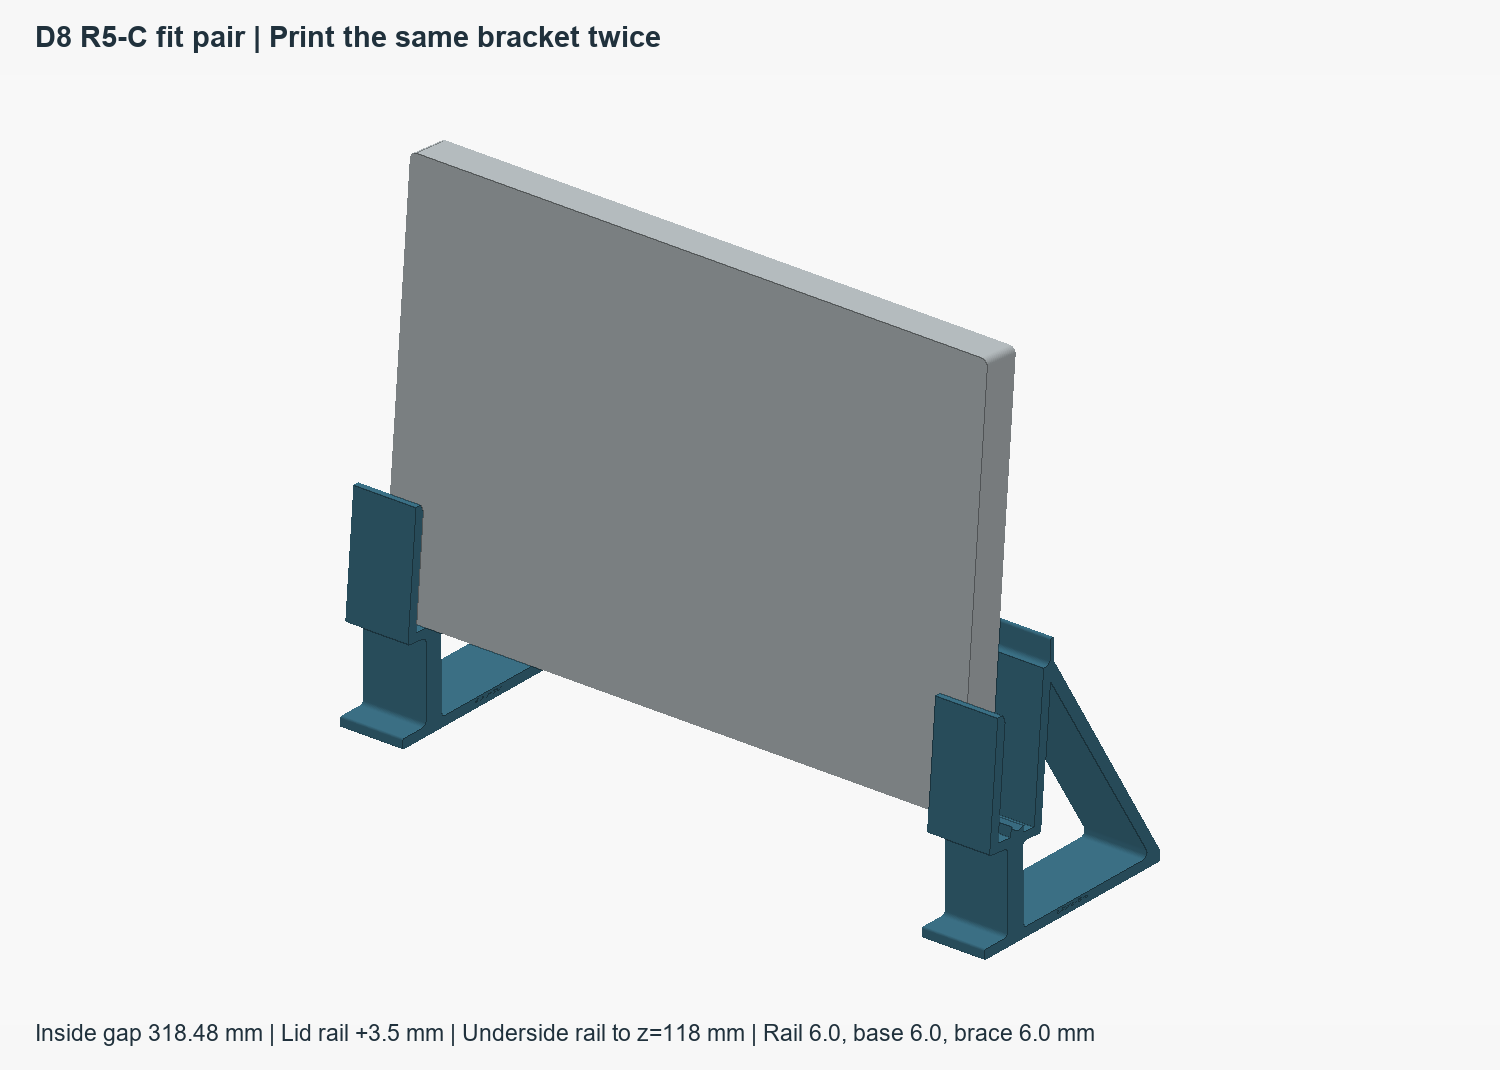
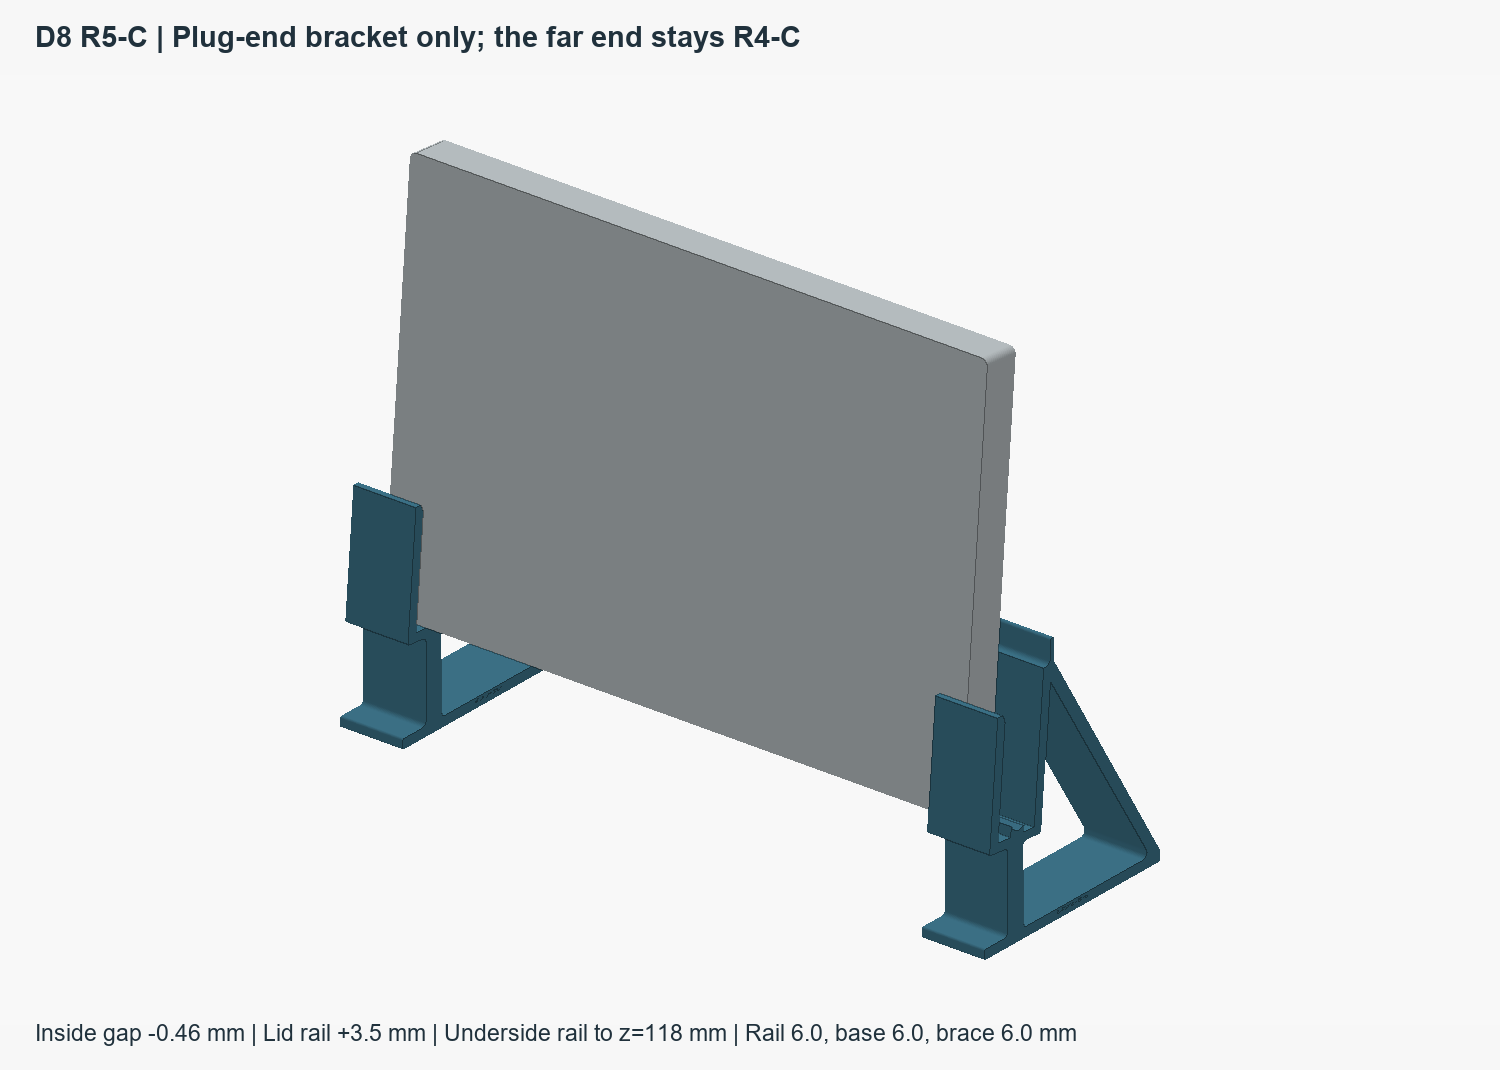
R5 bracket: docking-sweep receipt and plug-end-only decision
Claude-Session: https://claude.ai/code/session_0176uh1b37krRMqbsvLv9EDc

Changed region(s): [[0.092, 0.9561, 0.736, 0.9869], [0.092, 0.0308, 0.5213, 0.0617]]

diff --git a/desk-dock/D8/quick-fit/R5/build_quick_fit.py b/desk-dock/D8/quick-fit/R5/build_quick_fit.py
@@ -302,10 +302,26 @@ for deg in (2, 4, 6, 8, 10):
 assert tip_hits[2] < .001 or True  # small angles may graze the lead-in; recorded, not asserted
 assert max(tip_hits.values()) > 1.0, ('underside rail never catches the tipping laptop', tip_hits)
 first_catch = min(d for d,v in tip_hits.items() if v > .001)
-# Feet and intake window stay outside both bracket ends.
+# The wall belongs on the plug-end bracket (x=0 side) only. The laptop docks
+# along -X from an 18-mm undocked offset, so the rear rubber-foot strip
+# (x 30..323 docked) sweeps x 30..341: it never reaches the plug-end bracket
+# (x < 18) but passes through the far-end bracket's x range. The far end stays
+# R4-C without the wall. Receipt: sweep the docking travel and record the
+# closest approach of every foot keepout to this bracket at each end.
+undock = P['undocked_x_offset_mm']
 intake = C['intake_window_case_relative_bounds_mm']
-assert xstarts[0]+B < intake[0][0] and xstarts[1] > intake[1][0], 'underside rail would cover the intake window'
-assert all(xstarts[0]+B < f['untilted_case_relative_bounds_mm'][0][0] and xstarts[1] > f['untilted_case_relative_bounds_mm'][1][0] for f in C['rubber_feet']), 'underside rail would meet a rubber foot'
+sweep = {}
+for end, x0 in (('plug_end', xstarts[0]), ('far_end', xstarts[1])):
+    worst = None
+    for dx in np.arange(0, undock+1e-9, 2.0):
+        for f in C['rubber_feet']:
+            a, b_ = f['untilted_case_relative_bounds_mm']
+            fx0, fx1 = a[0]+dx, b_[0]+dx
+            gap = float(max(x0-fx1, fx0-(x0+B)))  # positive = clear in X
+            worst = gap if worst is None else min(worst, gap)
+    sweep[end] = {'min_x_clearance_to_any_foot_mm': worst, 'foot_strip_overlaps_bracket_x_range_during_docking': bool(worst < 0)}
+assert not sweep['plug_end']['foot_strip_overlaps_bracket_x_range_during_docking'], sweep
+assert xstarts[0]+B < intake[0][0], 'plug-end rail would cover the intake window'
 
 printed = s.rotate((0,0,0),(0,1,0),-90)
 b = printed.BoundingBox()
@@ -327,7 +343,7 @@ report = dict(passed=True,revision=f'R5-{VARIANT} fit pair',quantity=2,identical
     lip_nominal_clearance_mm=(.25+F['lip_outward_shift_mm']) if VARIANT!='A' else .25,
     fence_inner_to_rail_inner_mm=T+.25+(F['lip_outward_shift_mm'] if VARIANT!='A' else 0)+S,
     base_thickness_mm=BT,brace_width_mm=BW,edge_treatment=edge_report,
-    underside_rail=edge_report['fence'],tip_catch_first_deg=first_catch,tip_overlap_by_deg_mm3=tip_hits,
+    underside_rail=edge_report['fence'],tip_catch_first_deg=first_catch,tip_overlap_by_deg_mm3=tip_hits,docking_sweep=sweep,wall_placement='plug-end bracket only; pair = one R5 (plug end) + one R4 (far end)',
     seat_datum_unchanged=True,bracket_width_mm=B,
     inside_clear_gap_mm=gap,center_spacing_mm=xstarts[1]-xstarts[0],
     outside_width_mm=hi[0]-lo[0],footprint_depth_mm=y1-y0,
@@ -347,7 +363,7 @@ report = dict(passed=True,revision=f'R5-{VARIANT} fit pair',quantity=2,identical
 
 im,_ = render([(q,(62,117,139)) for q in placed]+[(laptop,(188,195,198))],(1500,950),(.8,-1,.65),pad=65)
 canvas = Image.new('RGB',(1500,1070),'#f7f7f7'); canvas.paste(im,(0,75)); draw=ImageDraw.Draw(canvas)
-draw.text((35,20),f'D8 R5-{VARIANT} fit pair | Print the same bracket twice',font=font(29,True),fill='#20313c')
+draw.text((35,20),f'D8 R5-{VARIANT} | Plug-end bracket only; the far end stays R4-{VARIANT}',font=font(29,True),fill='#20313c')
 draw.text((35,1020),f'Inside gap {gap:.2f} mm | Lid rail +{S} mm | Underside rail to z={F["fence_top_z_mm"]:.0f} mm | Rail {RT}, base {BT}, brace {BW} mm',font=font(23),fill='#20313c')
 canvas.save(R/f'D8-R5-{VARIANT}{TAG}-quick-fit.png')
 im,_=render([(s,(62,117,139))],(1100,900),(1,-.15,.13),pad=60)

diff --git a/desk-dock/D8/quick-fit/R5/README.md b/desk-dock/D8/quick-fit/R5/README.md
@@ -3,12 +3,15 @@
 **18 September 2026.** The printed R4-C pair carried the laptop, but a nudge
 tipped it away from the lid rail: the 15-mm short fence cannot hold a 240-mm
 lever pivoting on the seat, and the 5-degree lean gives only about 10 mm of
-centre-of-gravity margin. R5 raises that fence, at the bracket ends only, into
-a 6-mm underside rail 64 mm above the seat datum (unleaned z 47..118), keeping
+centre-of-gravity margin. R5 raises that fence into a 6-mm underside rail on the **plug-end bracket only**, 64 mm above the seat datum (unleaned z 47..118), keeping
 the R2 lower profile, the 2.25-mm running clearance and a 4 x 2 mm lead-in at
-the top. Rubber feet (x 30..323) and the intake window (x 31..323) lie between
-the brackets, so the rail meets neither and blocks no air; the builder asserts
-both.
+the top. The laptop docks along -X from an 18-mm undocked offset, so the rear
+rubber-foot strip (x 30..323 docked) sweeps x 30..341: it never reaches the
+plug-end bracket (x < 18) but slides through the far-end bracket's x range, so
+the far end keeps the R4-C profile without the wall. One wall stops the
+rotation. The builder records the docking sweep and asserts the plug-end
+clearance. Pair = one R5-C (plug end) + one R4-C (far end); the two R4-C
+already printed cover the far end.
 
 Tip receipt (variant C, nominal laptop rotated about the seat front edge toward
 the underside side): 2° grazes the lead-in, 4° and beyond the rail carries it.
